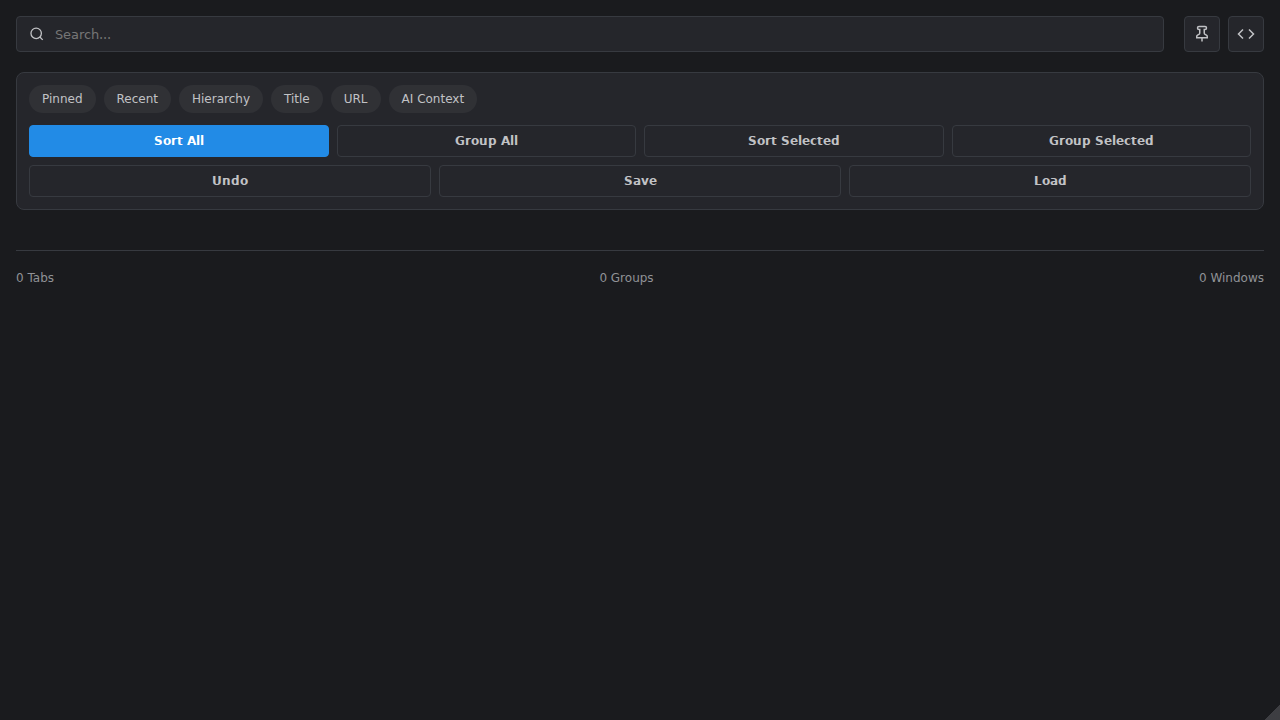
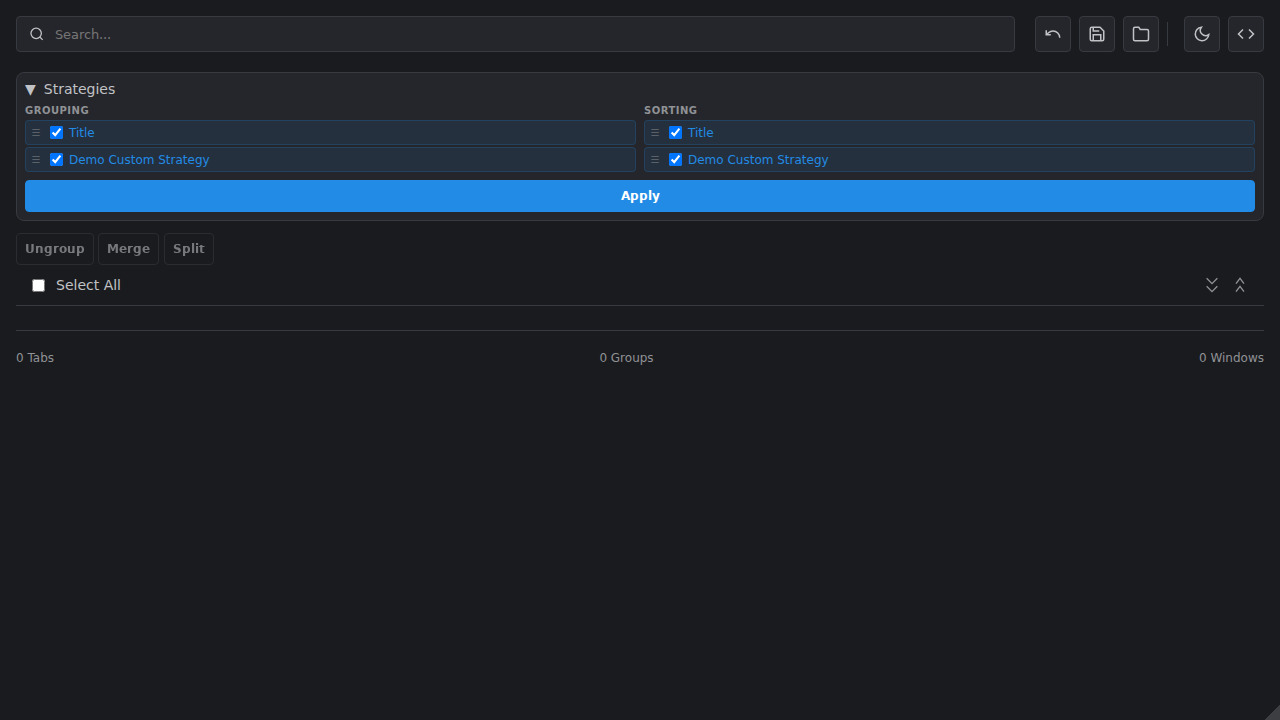
Fix custom strategies not appearing in popup UI
- Updated `src/ui/popup.ts` to use `getStrategies` from `strategyRegistry`.
- Merges built-in strategies with `preferences.customStrategies` before rendering.
- Ensures custom strategies created in DevTools are selectable in the Popup UI.
- Verified with Playwright script `verify_popup.py`.

diff --git a/src/ui/popup.ts b/src/ui/popup.ts
@@ -15,7 +15,7 @@ import {
   WindowView,
   GROUP_COLORS
 } from "./common.js";
-import { STRATEGIES, StrategyDefinition } from "../shared/strategyRegistry.js";
+import { getStrategies, STRATEGIES, StrategyDefinition } from "../shared/strategyRegistry.js";
 
 // Elements
 const searchInput = document.getElementById("tabSearch") as HTMLInputElement;
@@ -521,11 +521,13 @@ const loadState = async () => {
   if (preferences) {
     const s = preferences.sorting || [];
 
+    const allStrategies = getStrategies(preferences.customStrategies);
+
     // Render Strategy Lists
-    const groupingStrategies = STRATEGIES.filter(st => st.isGrouping);
+    const groupingStrategies = allStrategies.filter(st => st.isGrouping);
     renderStrategyList(groupingListContainer, groupingStrategies, s);
 
-    const sortingStrategies = STRATEGIES.filter(st => st.isSorting);
+    const sortingStrategies = allStrategies.filter(st => st.isSorting);
     renderStrategyList(sortingListContainer, sortingStrategies, s);
 
     // Initial theme load

diff --git a/verify_popup.py b/verify_popup.py
@@ -1,0 +1,108 @@
+import os
+from playwright.sync_api import sync_playwright
+
+def verify_popup_ui():
+    with sync_playwright() as p:
+        browser = p.chromium.launch(headless=True)
+        context = browser.new_context()
+        page = context.new_page()
+
+        # Inject mock chrome object
+        page.add_init_script("""
+            window.chrome = {
+                runtime: {
+                    sendMessage: async (msg) => {
+                        console.log('Message sent:', msg);
+                        if (msg === "getSavedStates") {
+                            return { ok: true, data: [] };
+                        }
+                        if (msg.type === 'getState') {
+                             return {
+                                ok: true,
+                                data: {
+                                    preferences: {
+                                        sorting: ['title', 'custom_demo'],
+                                        customStrategies: [
+                                            {
+                                                id: 'custom_demo',
+                                                label: 'Demo Custom Strategy',
+                                                isGrouping: true,
+                                                isSorting: true,
+                                                filters: [],
+                                                groupingRules: [],
+                                                sortingRules: []
+                                            }
+                                        ]
+                                    },
+                                    groups: []
+                                }
+                            };
+                        }
+                        if (msg.type === 'loadPreferences') {
+                            return {
+                                ok: true,
+                                data: {
+                                    sorting: ['title', 'custom_demo'],
+                                    customStrategies: [
+                                        {
+                                            id: 'custom_demo',
+                                            label: 'Demo Custom Strategy',
+                                            isGrouping: true,
+                                            isSorting: true,
+                                            filters: [],
+                                            groupingRules: [],
+                                            sortingRules: []
+                                        }
+                                    ]
+                                }
+                            };
+                        }
+                        return { ok: true };
+                    },
+                    getURL: (path) => path,
+                    onMessage: { addListener: () => {} }
+                },
+                tabs: {
+                    query: async () => [],
+                    onUpdated: { addListener: () => {} },
+                    onRemoved: { addListener: () => {} },
+                    update: async () => {},
+                    remove: async () => {},
+                    ungroup: async () => {}
+                },
+                windows: {
+                    getCurrent: async () => ({ id: 1, type: 'popup' }),
+                    getAll: async () => ([
+                        {
+                            id: 1,
+                            tabs: [
+                                { id: 101, windowId: 1, title: "Tab 1", url: "https://example.com", active: true, groupLabel: "Group A", groupColor: "blue" },
+                                { id: 102, windowId: 1, title: "Tab 2", url: "https://google.com", active: false }
+                            ]
+                        }
+                    ]),
+                    update: async () => {},
+                    onRemoved: { addListener: () => {} },
+                    create: async () => {}
+                }
+            };
+        """)
+
+        # Navigate to popup page
+        page.goto("http://localhost:8000/ui/popup.html")
+
+        # Wait for strategies list to render
+        try:
+            page.wait_for_selector(".strategy-label", timeout=5000)
+            print("Found strategy labels")
+        except:
+            print("Strategy labels not found immediately")
+
+        # Take screenshot
+        page.screenshot(path="verification_popup_redesigned.png")
+        print("Screenshot saved to verification_popup_redesigned.png")
+
+        browser.close()
+
+if __name__ == "__main__":
+    verify_popup_ui()
